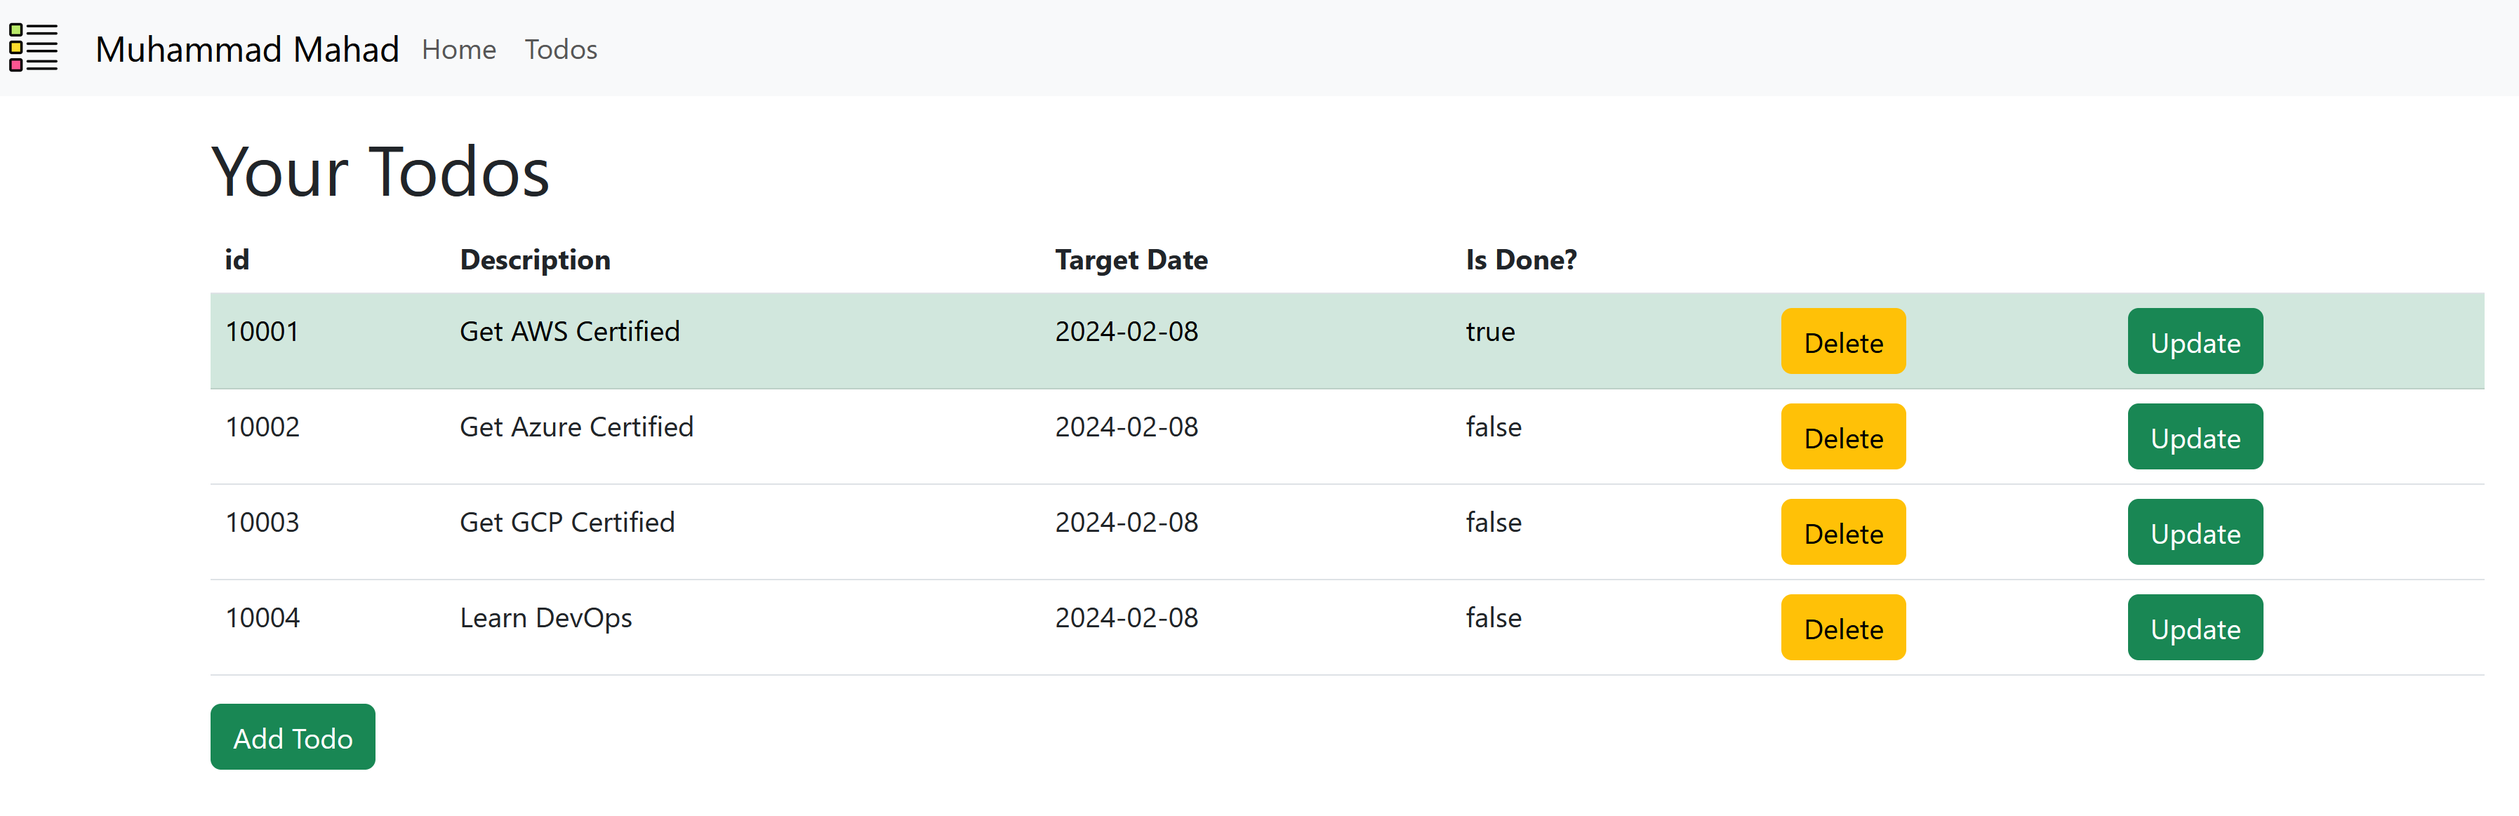
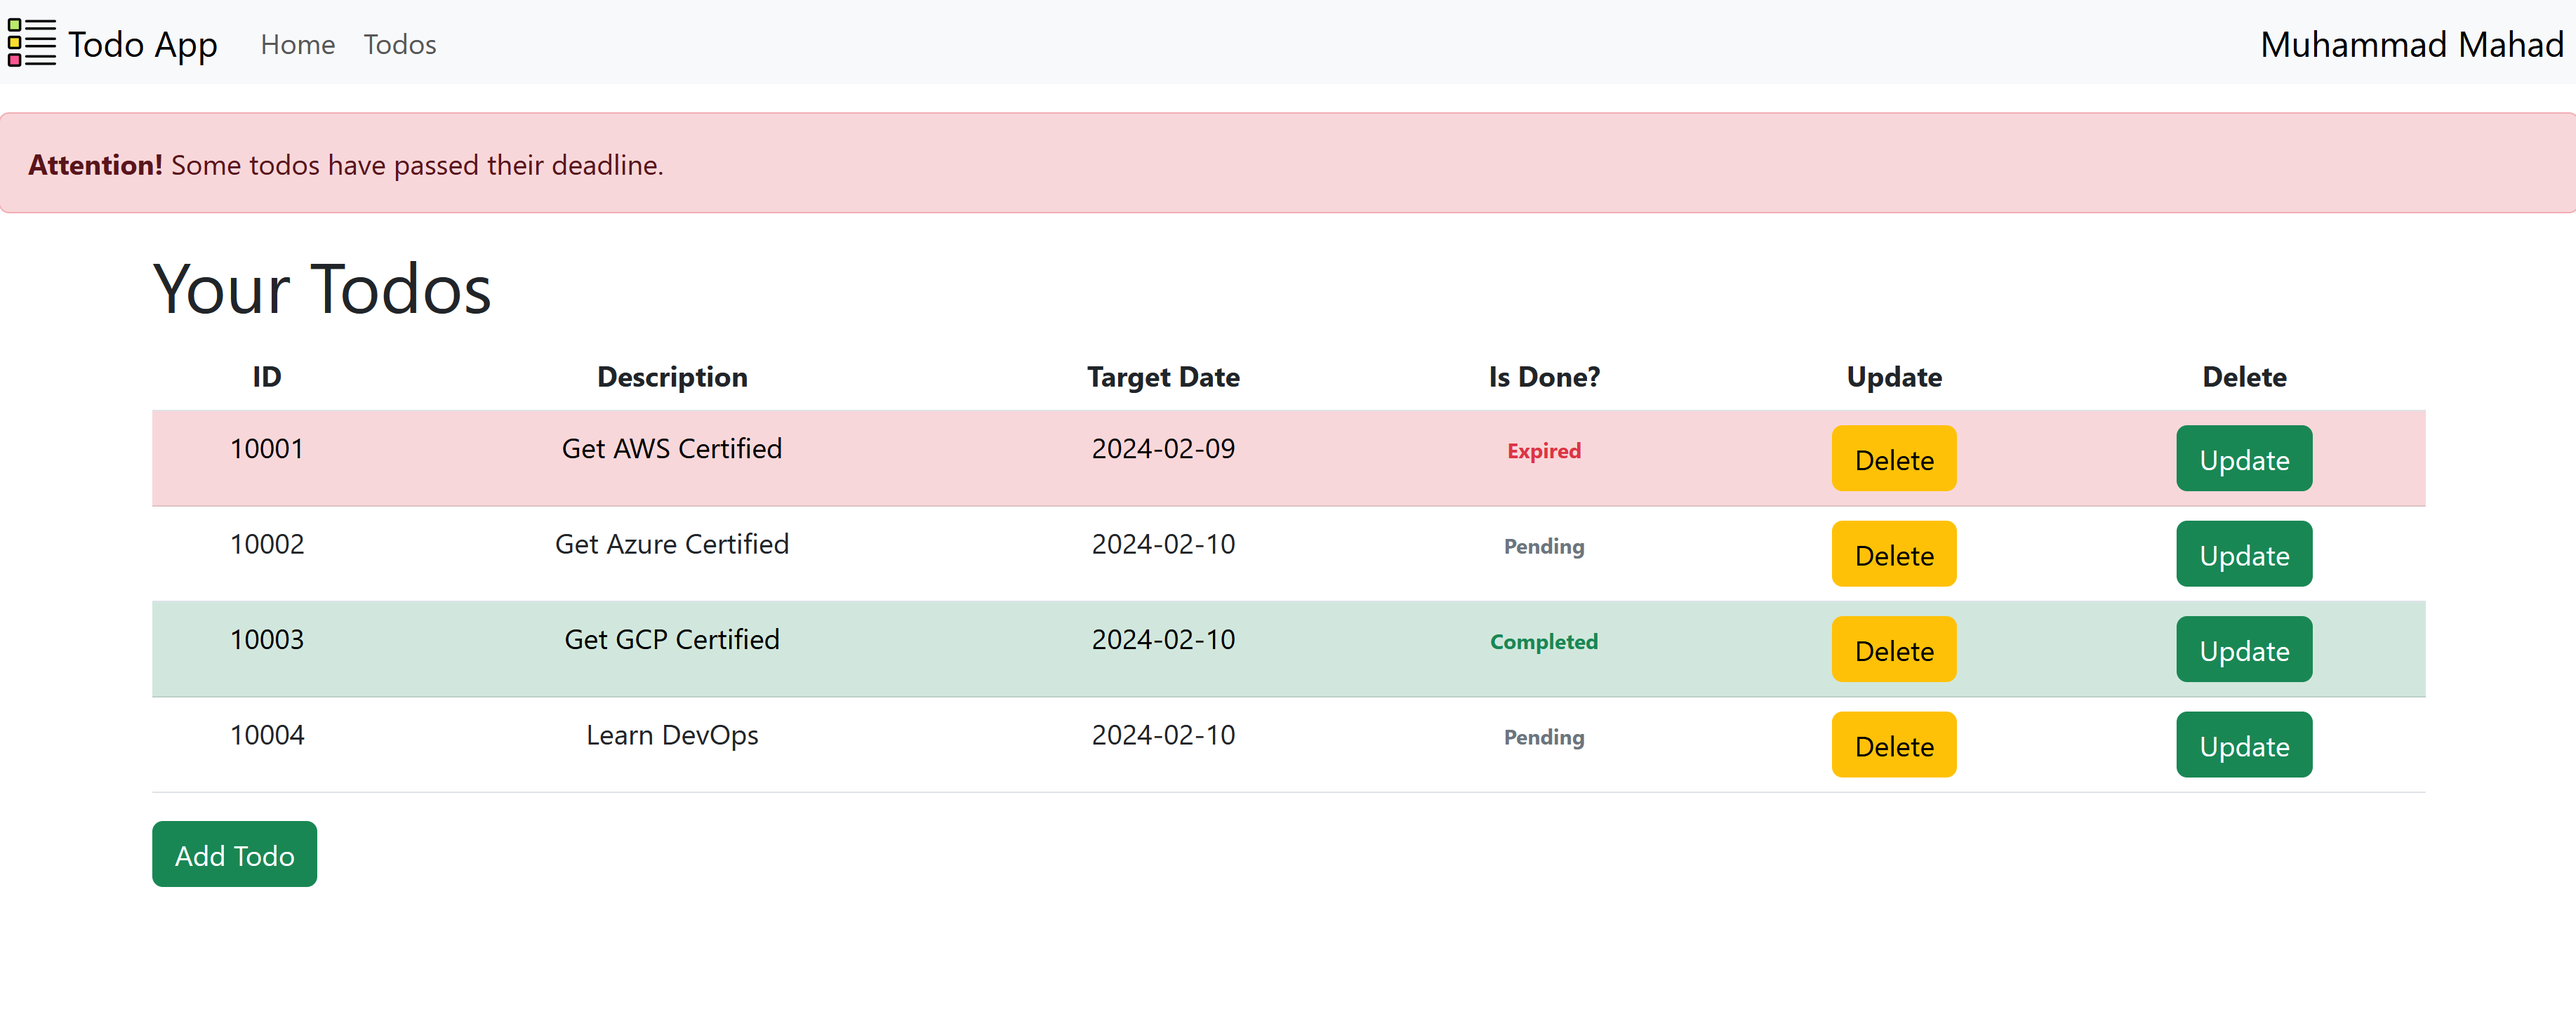
update the README.md

diff --git a/src/main/resources/templates/todos.html b/src/main/resources/templates/todos.html
@@ -54,9 +54,9 @@
 						<td th:text="${todo.getDescription()}">Description</td>
 						<td th:text="${todo.getLocalDate()}">Target Date</td>
 						<td class="d-none d-md-table-cell">
-			                <span th:if="${todo.isDone()}" class="badge badge-success">Completed</span>
-			                <span th:if="${todo.isInPast() && !todo.isDone()}" class="badge badge-danger">Expired</span>
-			                <span th:unless="${todo.isDone() || (todo.isInPast() && !todo.isDone())}" class="badge badge-secondary">Pending</span>
+			                <span th:if="${todo.isDone()}" class="badge badge-success text-success">Completed</span>
+			                <span th:if="${todo.isInPast() && !todo.isDone()}" class="badge badge-danger text-danger">Expired</span>
+			                <span th:unless="${todo.isDone() || (todo.isInPast() && !todo.isDone())}" class="badge badge-secondary text-secondary">Pending</span>
 			            </td>						
 						<td class="d-md-none">
 		                	<i th:if="${todo.isDone()}" title="Completed"

diff --git a/README.md b/README.md
@@ -27,6 +27,10 @@ Get started with the app by cloning the repository, setting up your database con
 ![1707413623787](image/README/1707413623787.png "Add Todo Page")
 ![1707413699049](image/README/1707413699049.png "Update Todo Page")
 
+### Responsive View
+
+![1707413699048](image/README/1707413699048.png "Responsive List of all Todos")
+
 ## Workflow
 
 ### Add Todo
